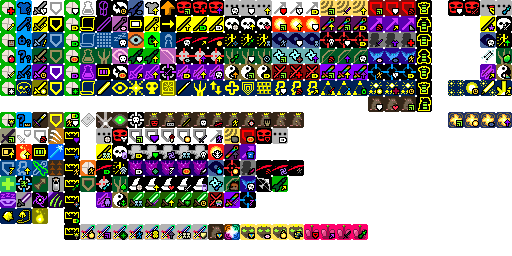
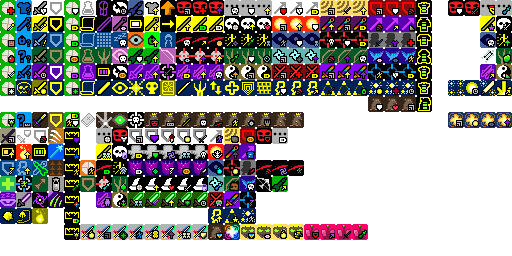
2.2: added stubs for armor ability talents

Changed region(s): [[0.4062, 0.8125, 0.5, 0.875]]

diff --git a/core/src/main/java/com/zrp200/rkpd2/actors/hero/Talent.java b/core/src/main/java/com/zrp200/rkpd2/actors/hero/Talent.java
@@ -264,11 +264,11 @@ public enum Talent {
 	//Paladin T3
 	LAY_ON_HANDS(174, 3), AURA_OF_PROTECTION(175, 3), WALL_OF_LIGHT(176, 3), LIMIT_BREAK(190, 3), TRIAGE(191, 3),
 	//Ascended Form T4
-	DIVINE_INTERVENTION(177, 4), JUDGEMENT(178, 4), FLASH(179, 4),
+	DIVINE_INTERVENTION(177, 4), JUDGEMENT(178, 4), FLASH(179, 4), DIVINE_PROFICIENCY(imageAt(13, 13), 4),
 	//Trinity T4
-	BODY_FORM(180, 4), MIND_FORM(181, 4), SPIRIT_FORM(182, 4),
+	BODY_FORM(180, 4), MIND_FORM(181, 4), SPIRIT_FORM(182, 4), META_FORM(imageAt(14, 13), 4),
 	//Power of Many T4
-	BEAMING_RAY(183, 4), LIFE_LINK(184, 4), STASIS(185, 4),
+	BEAMING_RAY(183, 4), LIFE_LINK(184, 4), STASIS(185, 4), IMITATE(imageAt(15, 13), 4),
 
 	//universal T4
 	HEROIC_ENERGY(26, 4) {

diff --git a/core/src/main/java/com/zrp200/rkpd2/actors/hero/abilities/cleric/AscendedForm.java b/core/src/main/java/com/zrp200/rkpd2/actors/hero/abilities/cleric/AscendedForm.java
@@ -68,7 +68,7 @@ public class AscendedForm extends ArmorAbility {
 
 	@Override
 	public Talent[] talents() {
-		return new Talent[]{Talent.DIVINE_INTERVENTION, Talent.JUDGEMENT, Talent.FLASH, Talent.HEROIC_ENERGY};
+		return new Talent[]{Talent.DIVINE_INTERVENTION, Talent.JUDGEMENT, Talent.FLASH, Talent.DIVINE_PROFICIENCY, Talent.HEROIC_ENERGY};
 	}
 
 	public static class AscendBuff extends ShieldBuff {

diff --git a/core/src/main/java/com/zrp200/rkpd2/actors/hero/abilities/cleric/Trinity.java b/core/src/main/java/com/zrp200/rkpd2/actors/hero/abilities/cleric/Trinity.java
@@ -307,7 +307,7 @@ public class Trinity extends ArmorAbility {
 
 	@Override
 	public Talent[] talents() {
-		return new Talent[]{Talent.BODY_FORM, Talent.MIND_FORM, Talent.SPIRIT_FORM, Talent.HEROIC_ENERGY};
+		return new Talent[]{Talent.BODY_FORM, Talent.MIND_FORM, Talent.SPIRIT_FORM, Talent.META_FORM, Talent.HEROIC_ENERGY};
 	}
 
 	public static class WndItemtypeSelect extends WndTitledMessage {

diff --git a/core/src/main/java/com/zrp200/rkpd2/actors/hero/abilities/cleric/PowerOfMany.java b/core/src/main/java/com/zrp200/rkpd2/actors/hero/abilities/cleric/PowerOfMany.java
@@ -186,7 +186,7 @@ public class PowerOfMany extends ArmorAbility {
 
 	@Override
 	public Talent[] talents() {
-		return new Talent[]{Talent.BEAMING_RAY, Talent.LIFE_LINK, Talent.STASIS, Talent.HEROIC_ENERGY};
+		return new Talent[]{Talent.BEAMING_RAY, Talent.LIFE_LINK, Talent.STASIS, Talent.IMITATE, Talent.HEROIC_ENERGY};
 	}
 
 	public static Char getPoweredAlly(){
